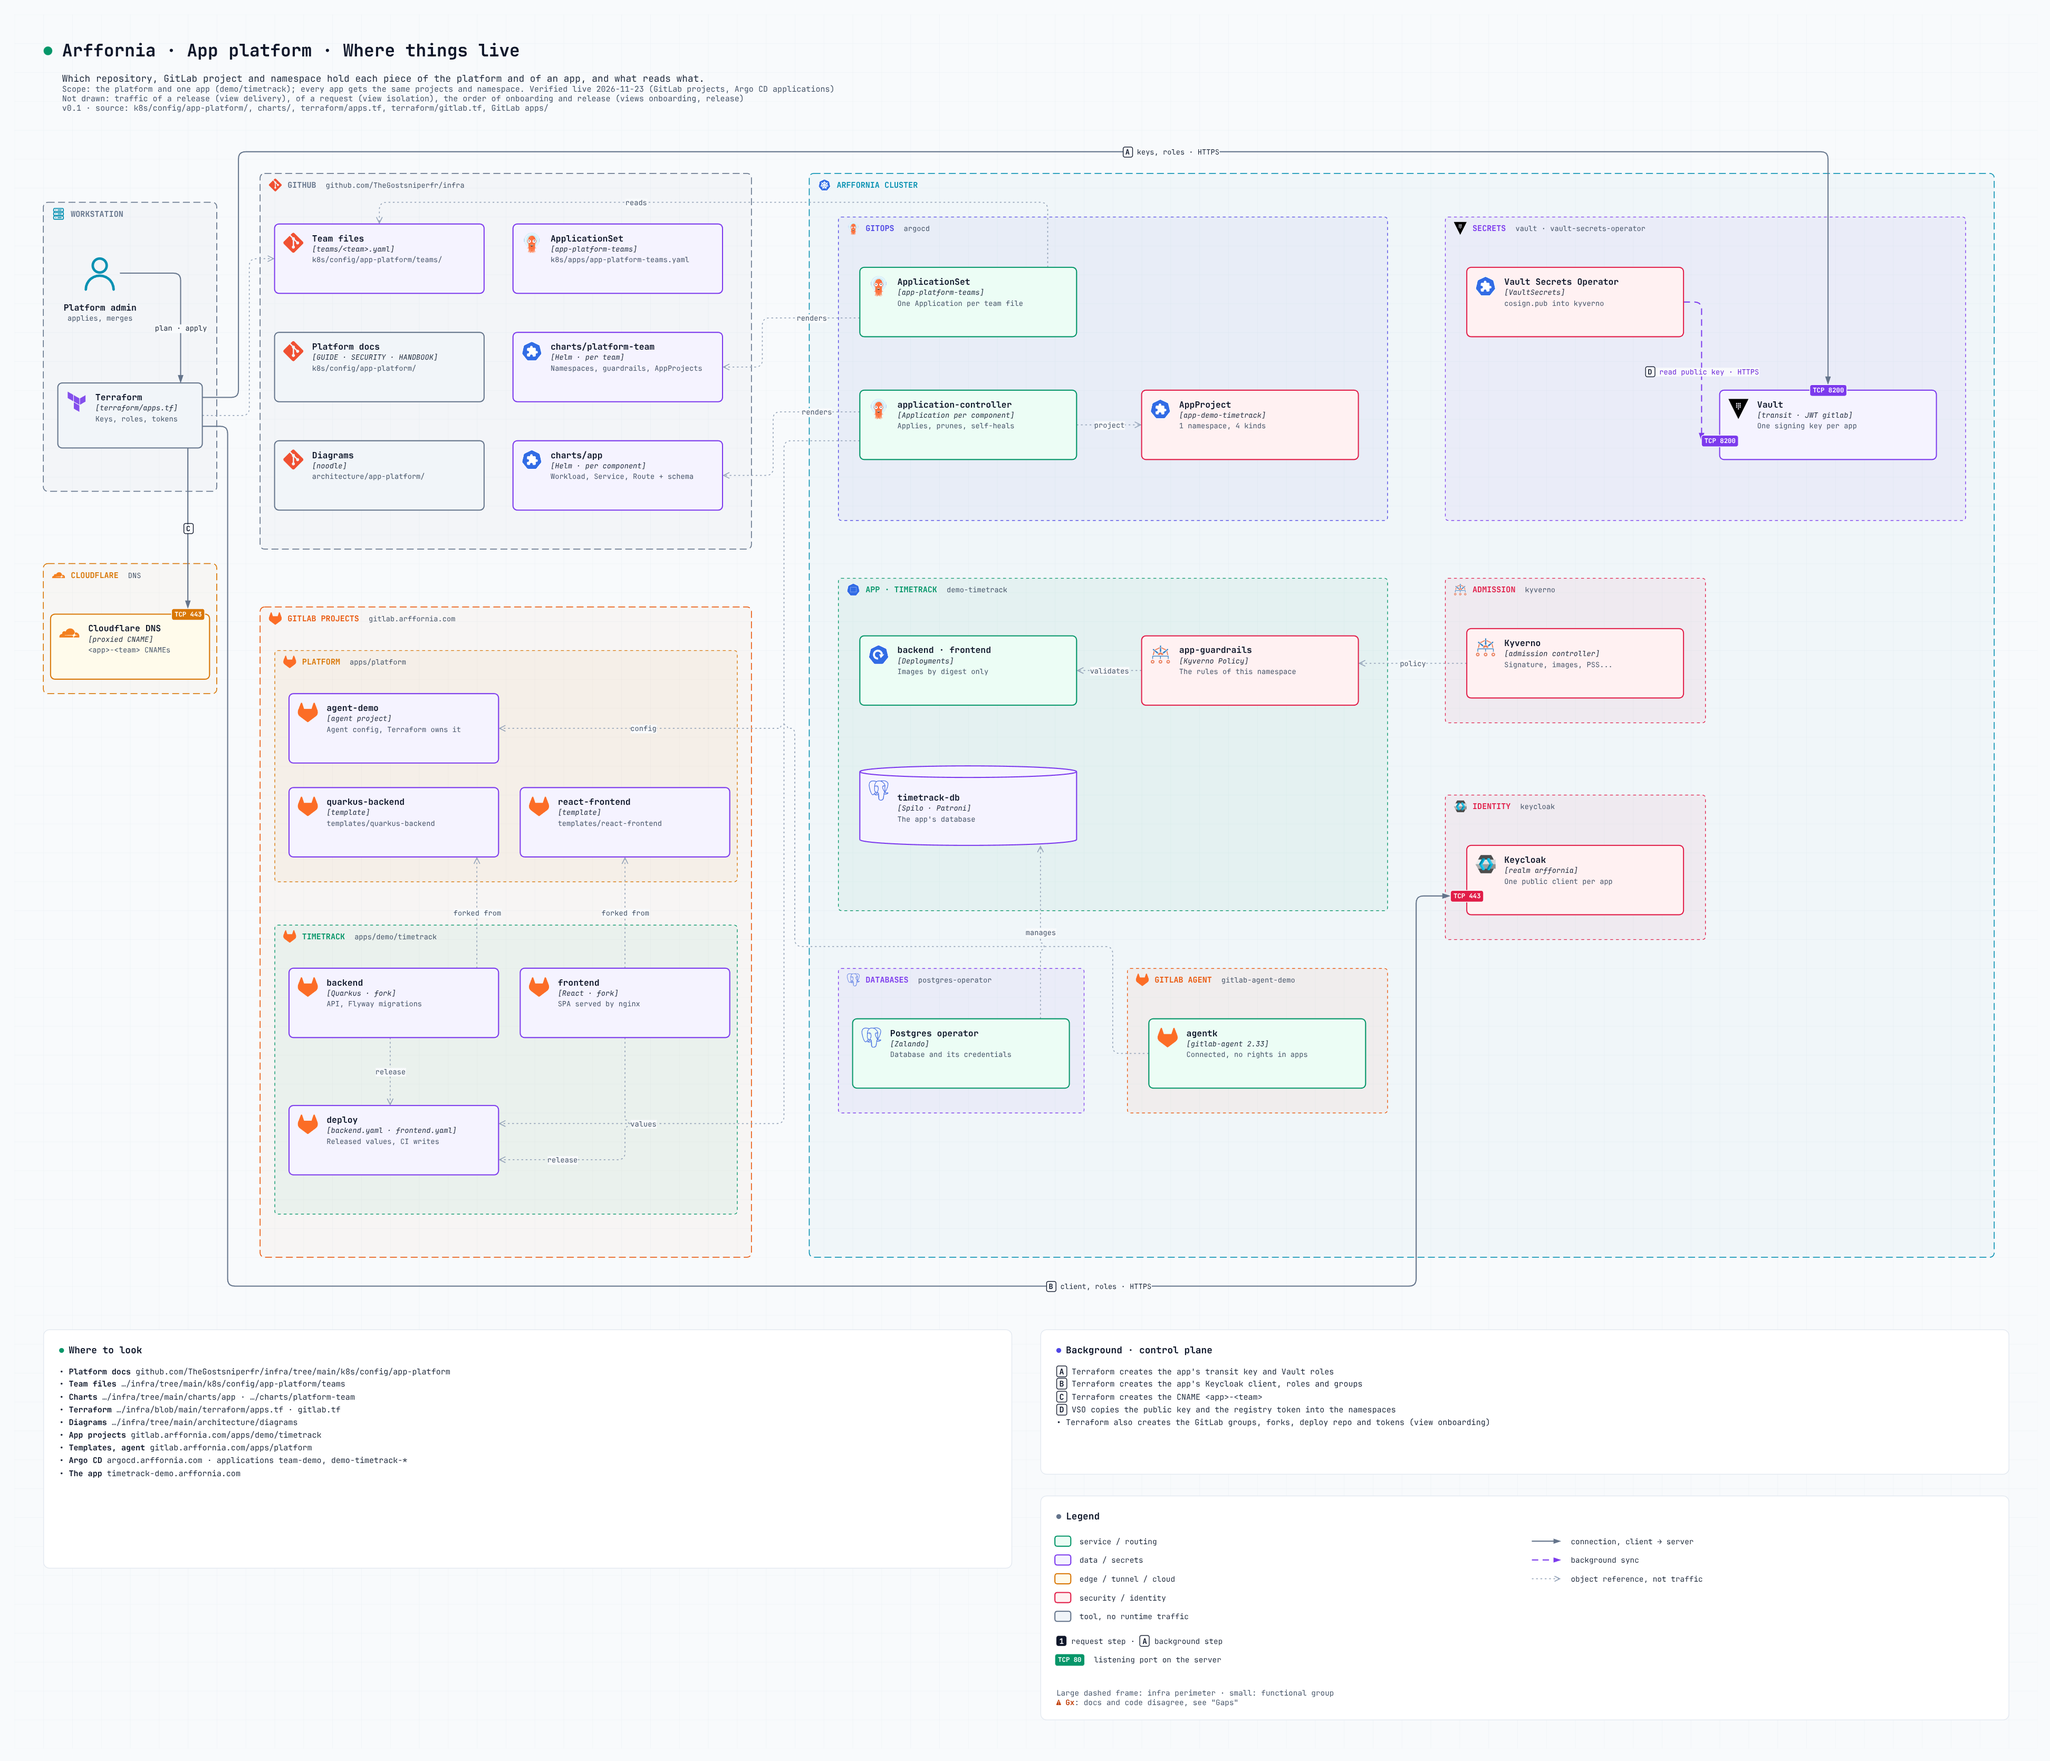
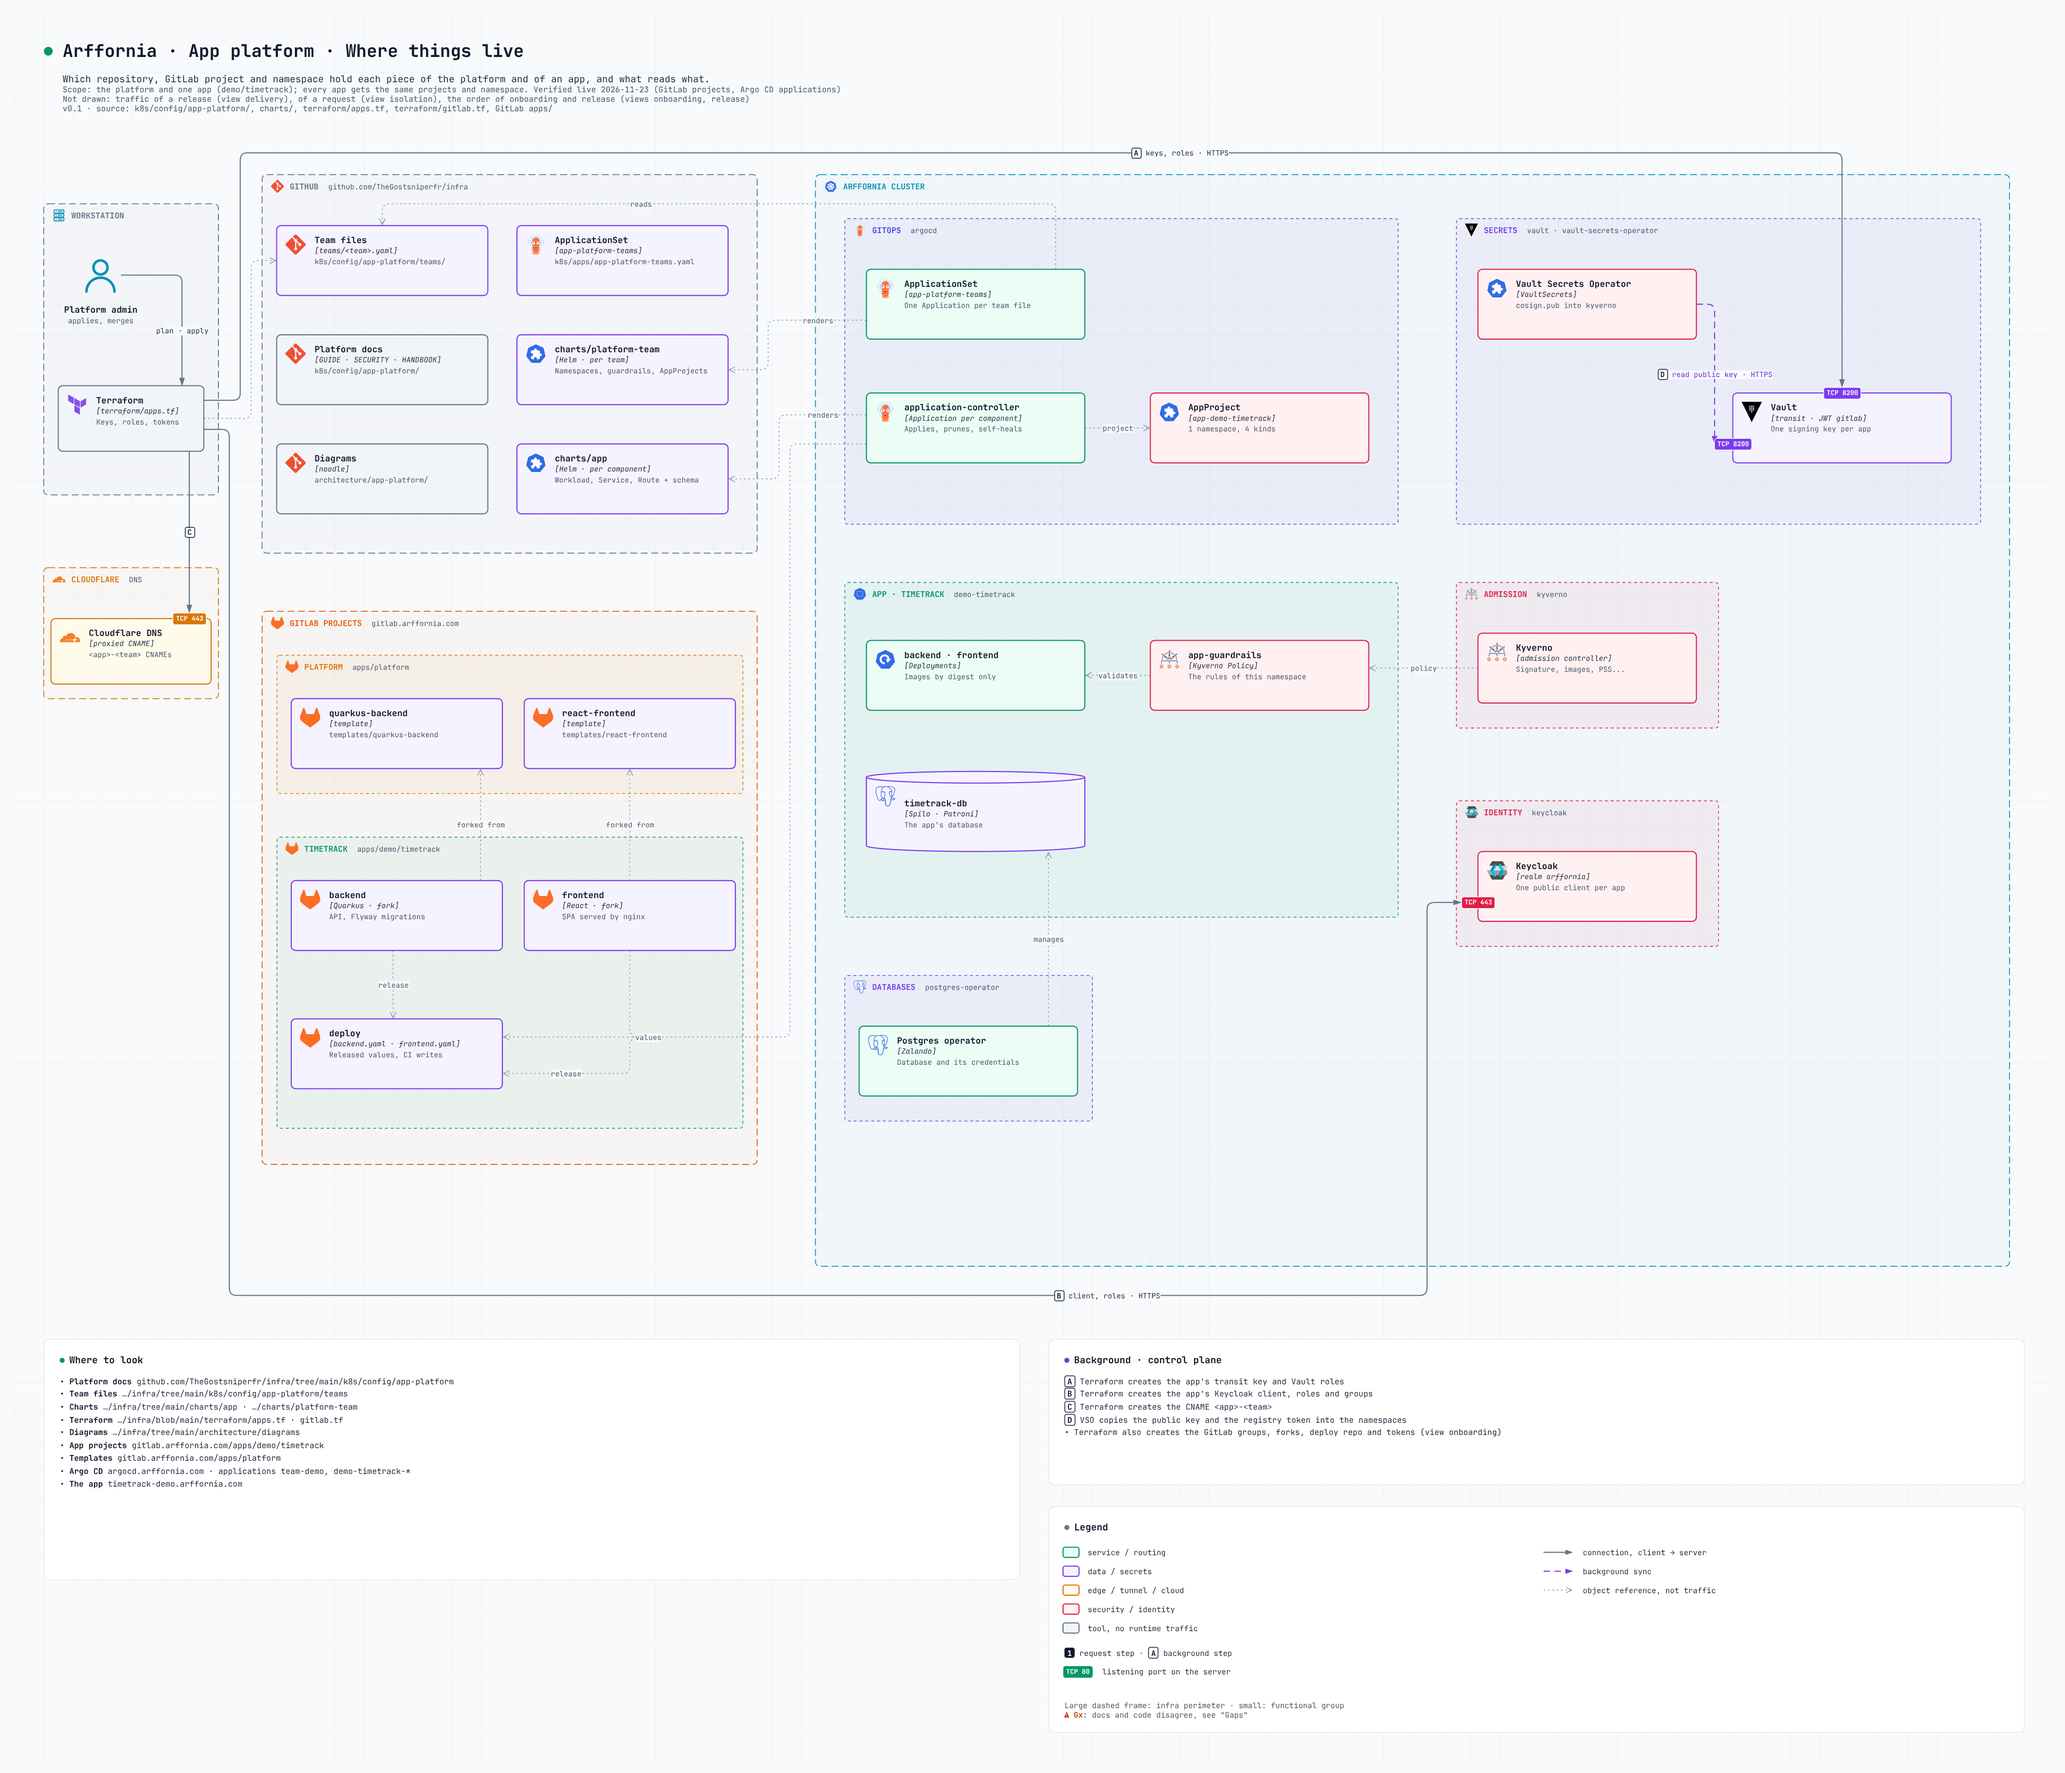
chore(app-platform): remove the GitLab agents
They kept a token and a namespace per team for features the POC does not use: Workspaces,
operational scanning, the GitLab Kubernetes dashboard. Pipelines never reach the cluster.

Claude-Session: https://claude.ai/code/session_014hcKHzEMHLcerUc7nx5RbN

diff --git a/k8s/config/app-platform/README.md b/k8s/config/app-platform/README.md
@@ -1,9 +1,9 @@
-# App platform: teams, agents and Argo CD
+# App platform: teams and Argo CD
 
 A team is a GitLab group `apps/<team>`: its members, and one subgroup per application. Its apps
 are deployed by Argo CD from their `deploy` repositories (`charts/platform-team`, `charts/app`).
-Each team also gets a GitLab agent (`agentk`), connected but without CI access or rights in the
-app namespaces: it is kept for what only it can do. Why: [`SECURITY.md`](SECURITY.md).
+There is no GitLab agent for Kubernetes: no pipeline reaches the cluster, Argo CD pulls. Why:
+[`SECURITY.md`](SECURITY.md).
 
 To create and deploy an app, read [`GUIDE.md`](GUIDE.md). To change the platform: [`HANDBOOK.md`](HANDBOOK.md).
 
@@ -17,14 +17,12 @@ To create and deploy an app, read [`GUIDE.md`](GUIDE.md). To change the platform
 3. Kyverno admits the Pods if the image is the app's and its signature checks out against the
    public key in `kyverno/cosign-<team>-<app>`.
 
-The agent: `agentk` (namespace `gitlab-agent-<team>`) keeps a websocket open to KAS, in-cluster
-(`ws://gitlab-kas.gitlab.svc.cluster.local:8150`). Its config, written by Terraform, is empty.
-
 ## Isolation model: one Argo CD project per app
 
 GitLab's answer to multi-tenancy is one agent with *impersonation*, Premium. On Free a job using
-an agent has all of the agent's rights, hence one agent per team when the agents deployed. Argo CD
-projects are free and per app: destination namespace, allowed kinds, source repositories.
+an agent has all of the agent's rights, hence one agent per team when the agents deployed (until
+2026-11-10; the agents were removed on 2026-11-23). Argo CD projects are free and per app:
+destination namespace, allowed kinds, source repositories.
 
 | | Agent + impersonation | Agent per team | Argo CD project per app (this setup) |
 |---|---|---|---|
@@ -46,11 +44,10 @@ The full list, with the secrets and the attacks: [`SECURITY.md`](SECURITY.md).
 |---|---|
 | `../../../architecture/app-platform` | noodle diagrams, renders in `architecture/diagrams/app-platform-*`: see [Diagrams](#diagrams) |
 | `teams/<team>.yaml` | The team: display name and application namespaces. The only file to add per team |
-| `agent-values.yaml` | Values of the official `gitlab-agent` chart, shared by every team |
-| `../../../charts/platform-team` | Per team: agent namespace and token, app namespaces, network policies, Kyverno rules, Argo CD projects and Applications |
+| `../../../charts/platform-team` | Per team: app namespaces, network policies, Kyverno rules, Argo CD projects and Applications |
 | `../../../charts/app` | The platform chart of one component, with the schema of what a team may set |
 | `../../apps/app-platform-teams.yaml` | ApplicationSet `app-platform-teams`: one Application `team-<team>` per file in `teams/` |
-| `../../../terraform/gitlab.tf` | Per file in `teams/`: GitLab group, agent project, agent, config, token in Vault |
+| `../../../terraform/gitlab.tf` | Per file in `teams/`: GitLab group `apps/<team>` |
 | `../../../terraform/apps.tf` | Per app: repositories, deploy token, signing key and Vault roles, Keycloak client, DNS |
 
 ## Diagrams
@@ -68,18 +65,16 @@ Start with `overview`, then follow an app through `onboarding` and `release`.
 ## Add a team
 
 1. Add `teams/<team>.yaml` (copy `teams/demo.yaml`) in a PR.
-2. `terraform apply` on the PR: group `apps/<team>`, project `apps/platform/agent-<team>`, the
-   agent, its config and its token in `kvv2/gitlab-agents/<team>`, the team's deploy tokens.
-3. Merge: the ApplicationSet creates `team-<team>`: the agent, and per app its namespace,
-   Argo CD project and Applications.
+2. `terraform apply` on the PR: group `apps/<team>`, the team's deploy tokens, and per app its
+   projects, keys and roles.
+3. Merge: the ApplicationSet creates `team-<team>`: per app its namespace, Argo CD project and
+   Applications.
 4. Once each of the team's people has signed in, approve them (Admin > Users > Pending approval)
    and add them to `apps/<team>` only, never to `apps` or `apps/platform`.
 
 ## Check the isolation
 
 ```sh
-kubectl auth can-i create deployments -n demo-timetrack \
-  --as=system:serviceaccount:gitlab-agent-demo:gitlab-agent-demo   # no: the agent does not deploy
 kubectl -n argocd get appproject app-demo-timetrack -o jsonpath='{.spec.destinations}'
 kubectl -n demo-timetrack get policy app-guardrails -o jsonpath='{.spec.rules[*].name}'
 ```
@@ -90,5 +85,4 @@ kubectl -n demo-timetrack get policy app-guardrails -o jsonpath='{.spec.rules[*]
    root's own Access tokens), scope `api`, with an expiry date. Add it to the sops tfvars as
    `gitlab_admin_token_var`.
 2. `terraform init` (new provider `gitlabhq/gitlab`), `terraform plan`, `terraform apply`.
-3. Merge: Argo CD deploys the agent, the VaultSecret pulls its token, the agent connects.
-   Check in GitLab: `apps/platform/agent-demo` > Operate > Kubernetes clusters shows the agent connected.
+3. Merge: the ApplicationSet creates one Application `team-<team>` per team file.

diff --git a/k8s/config/app-platform/SECURITY.md b/k8s/config/app-platform/SECURITY.md
@@ -49,7 +49,7 @@ reach. A `.dark` variant and the editable `.drawio` sit next to each.
 |---|---|---|
 | GitLab | `main` protected: Maintainers only push and merge | GitLab default branch protection |
 | GitLab | Groups and projects private; teams are members of `apps/<team>` only | `terraform/gitlab.tf` |
-| GitLab | Agents have no CI access: no pipeline can reach the cluster | `terraform/gitlab.tf` |
+| GitLab | No agent for Kubernetes: no pipeline can reach the cluster | `terraform/gitlab.tf` |
 | GitLab | A Keycloak user's first sign-in creates a blocked account: an admin approves it before it can run a job. Users cannot create groups | `k8s/config/gitlab/values.yaml` (`blockAutoCreatedUsers`), `terraform/gitlab.tf` (`can_create_group`) |
 | CI | Builds without privileges (Kaniko) | `.gitlab-ci.yml` of the templates |
 | CI | Jobs in `gitlab-ci-jobs`: nothing reaches them, they reach DNS and the internet only | `k8s/config/gitlab/ci-jobs-namespace.yaml` |
@@ -96,7 +96,6 @@ None is stored in a repository, and none is readable by a team member.
 | App secrets | Vault `kvv2/apps/<team>/<app>` | The app's namespace |
 | Database credentials | Written by the postgres-operator in the app's namespace | The app |
 | Keycloak client | None: public client with PKCE | |
-| Agent token | Vault `kvv2/gitlab-agents/<team>` | The agent, which has no rights in the app namespaces |
 
 ## Attacks, and what stops them
 
@@ -131,7 +130,6 @@ unexpected case would hide, so each says what contains it. A change that adds on
 | A Maintainer alone merges to `main`, so ships | Free tier: no mandatory approvals | Git history; Ultimate would require a review |
 | Team Applications run in Argo CD's `default` project | They create namespaces and the apps' projects | They render only charts of this repo, reviewed by PR |
 | Signing with a key, not keyless | Sigstore's public instance does not accept a self-hosted GitLab | Key never exported; only `main` of the app may use it |
-| GitLab agents stay connected | Kept for Workspaces, scanning, dashboard | No CI access, no rights outside their own namespace |
 | Kyverno does not re-check existing objects (`background: false`) | Its reports controller cannot read HTTPRoutes and VaultSecrets | Every create and update is checked; nothing is created otherwise |
 
 ## What remains
@@ -153,7 +151,7 @@ controls a pipeline on `main`, or GitLab itself, does too. With Argo CD, the clu
 checks; GitLab only proposes. It also corrects manual changes (`selfHeal`), and needs no paid tier
 to isolate apps: an Argo CD project per app replaces the agent's impersonation, which is Premium.
 
-What the agent still offers, kept connected but without rights:
+The agents were removed on 2026-11-23. What an agent would bring back, if one is ever needed:
 
 | Use | Tier | Without the agent |
 |---|---|---|
@@ -173,8 +171,4 @@ kubectl -n argocd get appproject app-demo-timetrack -o yaml
 
 # An unsigned image of the app is refused (tag pushed by hand)
 kubectl -n demo-timetrack run t --image=gitlab-registry.arffornia.com/apps/demo/timetrack/backend:<tag> --dry-run=server
-
-# The agent has no rights in the app namespace
-kubectl auth can-i create deployments -n demo-timetrack \
-  --as=system:serviceaccount:gitlab-agent-demo:gitlab-agent-demo   # no
 ```

diff --git a/k8s/config/app-platform/HANDBOOK.md b/k8s/config/app-platform/HANDBOOK.md
@@ -24,7 +24,7 @@ Never test by editing what Argo CD manages: selfHeal reverts it.
 ## Add a team
 
 1. `teams/<team>.yaml`, copied from `teams/demo.yaml`, in a PR.
-2. `terraform apply` on the PR: GitLab group, agent, deploy tokens, share of `apps/platform/ci`.
+2. `terraform apply` on the PR: GitLab group, deploy tokens, share of `apps/platform/ci`.
 3. Merge: Application `team-<team>`.
 4. People sign in once, then an admin approves them (Admin > Users > Pending approval) and adds
    them to `apps/<team>`: Developer, or Maintainer for those who may ship.
@@ -127,7 +127,6 @@ again.
 |---|---|
 | `DEPLOY_REPO_TOKEN` | `terraform apply -replace=gitlab_project_access_token.app_deploy["<team>/<app>"]` |
 | Registry and repository deploy tokens | `-replace=` the `gitlab_group_deploy_token`; the VaultSecrets pick the new one up |
-| Agent token | `-replace=gitlab_cluster_agent_token.team["<team>"]` |
 | A person | Block them in GitLab (Admin > Users) and disable them in Keycloak |
 
 ## An app is compromised

diff --git a/k8s/config/app-platform/GUIDE.md b/k8s/config/app-platform/GUIDE.md
@@ -66,8 +66,8 @@ What that does, system by system, as it would be done by hand:
    - In `kyverno`: the app's public key. In `argocd`: the team's read token for the deploy repositories.
 6. **First deployment**: a push to `main` of each repository.
 
-Once per team, not per app: group `apps/<team>`, its registry and repository deploy tokens, its
-agent. See `README.md`.
+Once per team, not per app: group `apps/<team>`, its registry and repository deploy tokens. See
+`README.md`.
 
 ## Deploy a change
 
